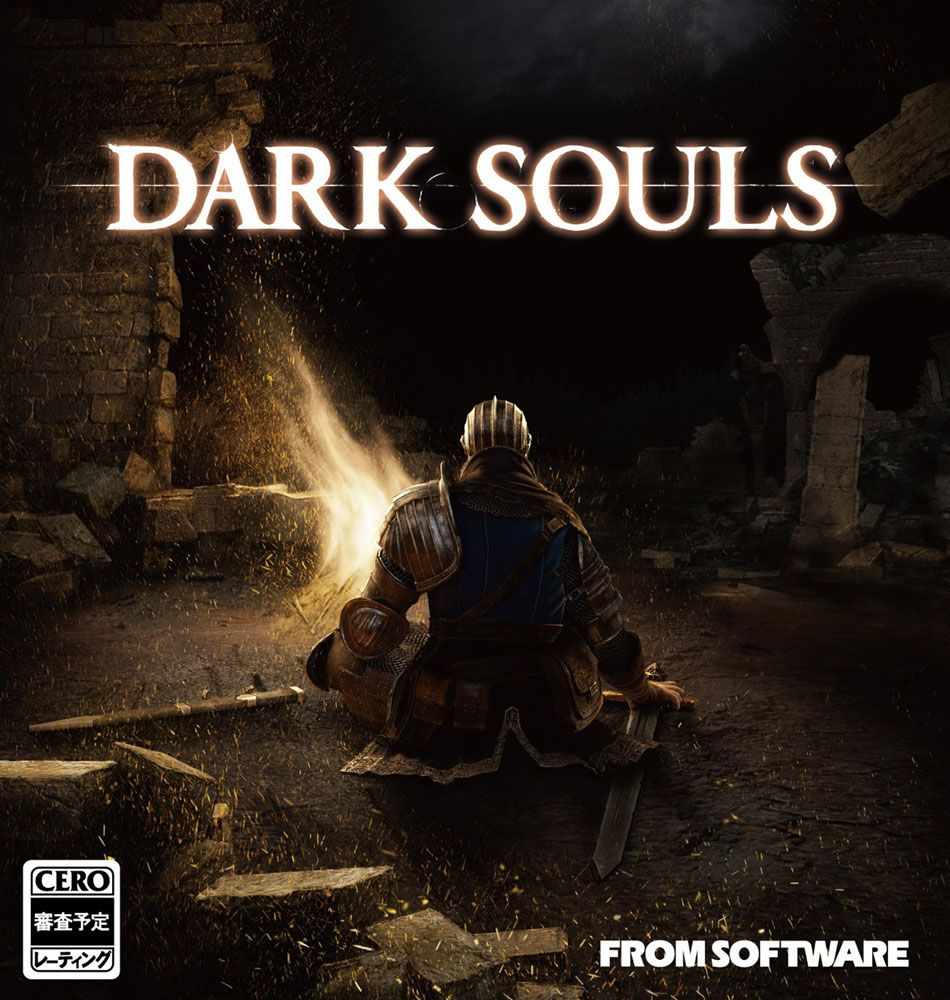
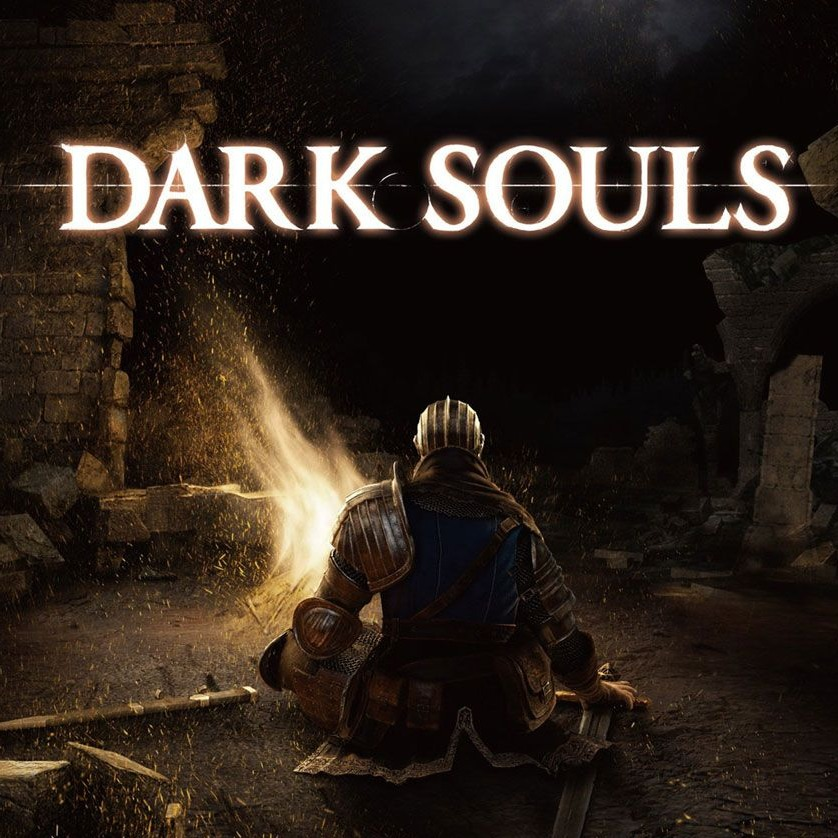
made images fit properly and djust height properly. fixed error where a gap was left below images. removed excess div from images. renamed some divs to reduce repetition

diff --git a/style/main.scss b/style/main.scss
@@ -45,20 +45,6 @@ header {
   }
 }
 
-.img {
-  display: block;
-  width: 100%;
-  object-fit: cover;
-  border-radius: 1rem;
-  padding: 0%;
-  margin: 0%;
-  border: 0%;
-  filter: grayscale(0.75);
-  &:hover {
-    filter: grayscale(0);
-    transition: all 500ms ease-in;
-  }
-}
 
 .allcards {
   border: 0.1rem solid black;
@@ -67,12 +53,12 @@ header {
   backdrop-filter: blur(3px);
   display: grid;
   width: 80%;
-  max-width: 1300px ;
+  max-width: 1300px;
   padding: 2rem;
   margin: auto;
   grid-gap: 1rem;
   justify-content: start;
-
+  
   grid-template-columns: repeat(auto-fit, minmax(20rem, 1fr));
   @media (max-width: 480px) {
     grid-template-columns: repeat(auto-fit, minmax(100%, 1fr));
@@ -83,6 +69,8 @@ header {
   border-radius: 1rem;
   background-color: map-get($background-colour, card);
   margin: 0.5rem;
+  padding: 1rem;
+  overflow: hidden;
   &__title {
     color: map-get($font-color, title);
     text-align: center;
@@ -98,8 +86,30 @@ header {
   display: grid;
   flex-wrap: wrap;
   grid-template-columns: repeat(auto-fit, minmax(5rem, 1fr));
-
+  
   @media (max-width: 480px) {
     grid-template-columns: repeat(auto-fit, minmax(100%, 1fr));
   }
+}
+
+
+.image {
+  display: flex;
+  justify-content: center; 
+  align-items: center; 
+  padding: 0%;
+  margin: 0%;
+  filter: grayscale(0.75);
+  &:hover {
+    filter: grayscale(0);
+    transition: all 500ms ease-in;
+  }
+}
+
+.img {
+  display: block;
+  aspect-ratio: 1/1;
+  max-width: 100%;
+  height: auto;
+  object-fit: cover; 
 }

diff --git a/style/css/main.css b/style/css/main.css
@@ -43,21 +43,6 @@ header {
   }
 }
 
-.img {
-  display: block;
-  width: 100%;
-  object-fit: cover;
-  border-radius: 1rem;
-  padding: 0%;
-  margin: 0%;
-  border: 0%;
-  filter: grayscale(0.75);
-}
-.img:hover {
-  filter: grayscale(0);
-  transition: all 500ms ease-in;
-}
-
 .allcards {
   border: 0.1rem solid black;
   border-radius: 1rem;
@@ -82,6 +67,8 @@ header {
   border-radius: 1rem;
   background-color: #f0e6e6;
   margin: 0.5rem;
+  padding: 1rem;
+  overflow: hidden;
 }
 .card__title {
   color: black;
@@ -102,4 +89,25 @@ header {
   .column__description {
     grid-template-columns: repeat(auto-fit, minmax(100%, 1fr));
   }
+}
+
+.image {
+  display: flex;
+  justify-content: center;
+  align-items: center;
+  padding: 0%;
+  margin: 0%;
+  filter: grayscale(0.75);
+}
+.image:hover {
+  filter: grayscale(0);
+  transition: all 500ms ease-in;
+}
+
+.img {
+  display: block;
+  aspect-ratio: 1/1;
+  max-width: 100%;
+  height: auto;
+  object-fit: cover;
 }

diff --git a/index.html b/index.html
@@ -66,21 +66,18 @@
         </p>
       </div>
 
-      <div class="card links">
-        <div class="card__image">
-          <a href="pages/darksouls.html">
-            <img class="img" src="./images/dark-souls-1.jpg" />
-          </a>
-        </div>
-      </div>
 
-      <div class="card links">
-        <div class="card__image">
-          <a href="pages/darksouls.html">
+        <div class="card image">
+          <a href="pages/darksouls.html" target="_blank">
             <img class="img" src="./images/dark-souls-1.jpg" />
           </a>
         </div>
-      </div>
+
+        <div class="card image">
+          <a href="pages/stray.html">
+            <img class="img" src="./images/Stray.jpg"/>
+          </a>
+        </div>
 
     </section>
   </body>

diff --git a/pages/stray.html b/pages/stray.html
@@ -7,7 +7,7 @@
 
     <style>
       body {
-        background-image: url("../images/ds1-bg.jpg");
+        background-image: url("../images/stray-bg.jpg");
       }
 
       .opening {
@@ -22,7 +22,7 @@
         }
       }
 
-      .image {
+      .image { 
         @media (min-width: 720px) {
           grid-row: span 2;
           grid-column: span 2;
@@ -127,7 +127,7 @@
       </div>
 
       <div class="card image">
-        <img class="img" src="../images/pexels-stephan-seeber-1054201.jpg" />
+          <img class="img" src="../images/pexels-stephan-seeber-1054201.jpg" />
       </div>
 
       <div class="card lorem">
